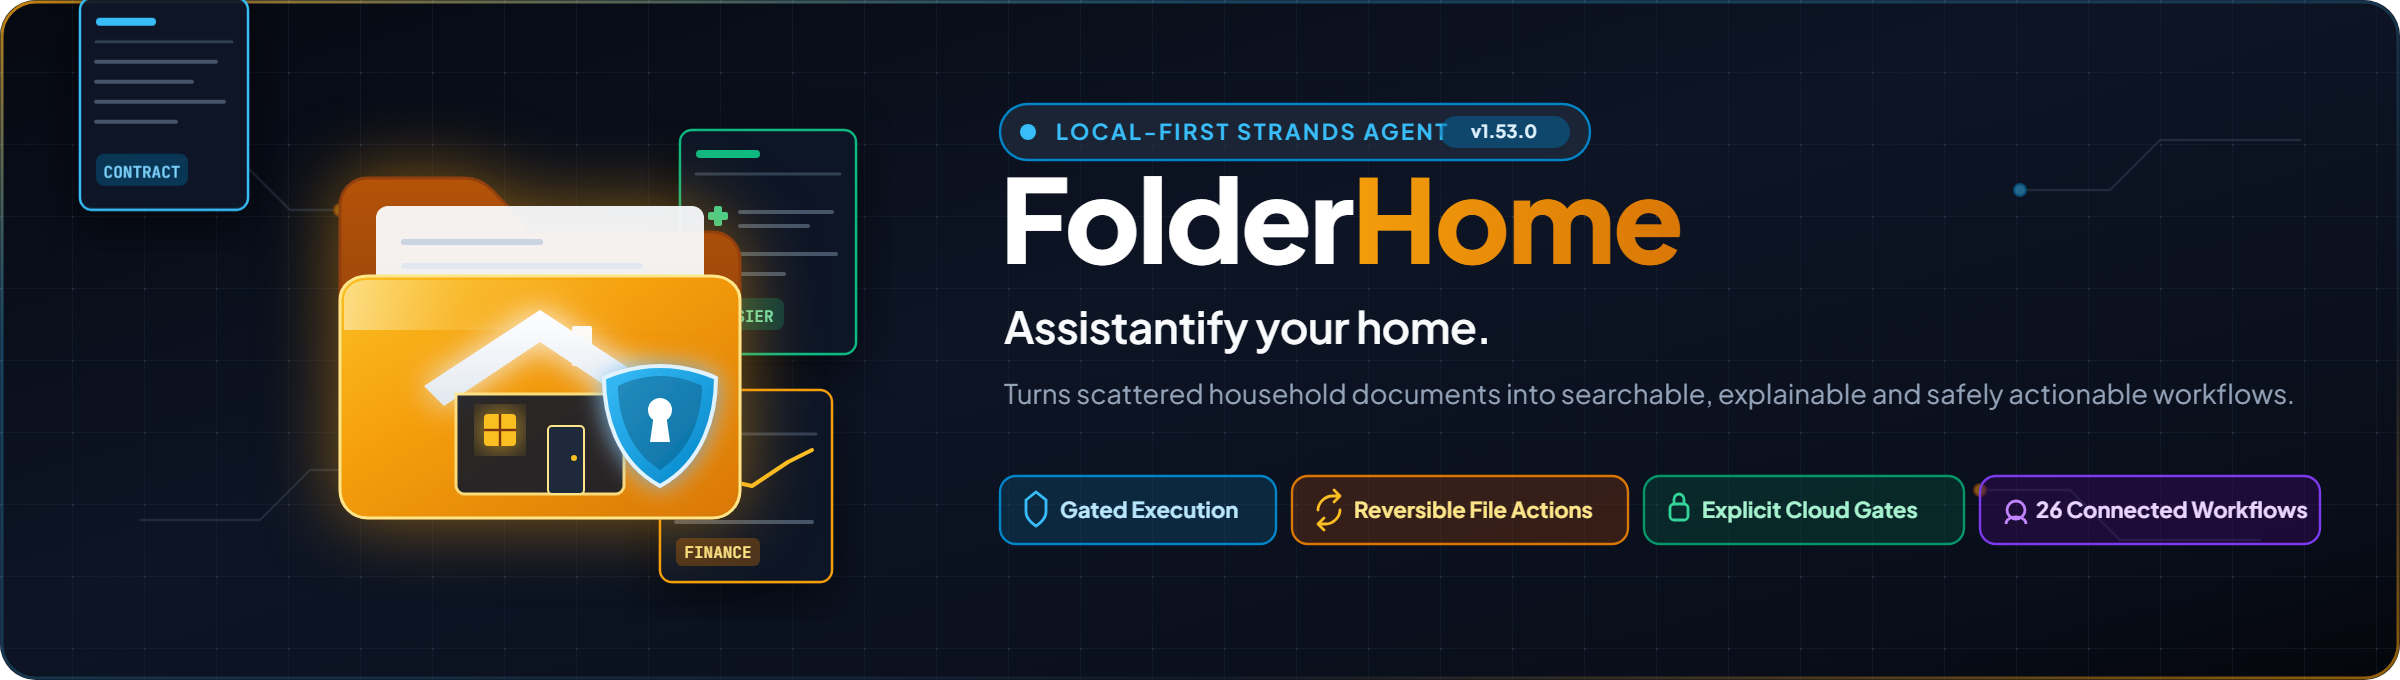
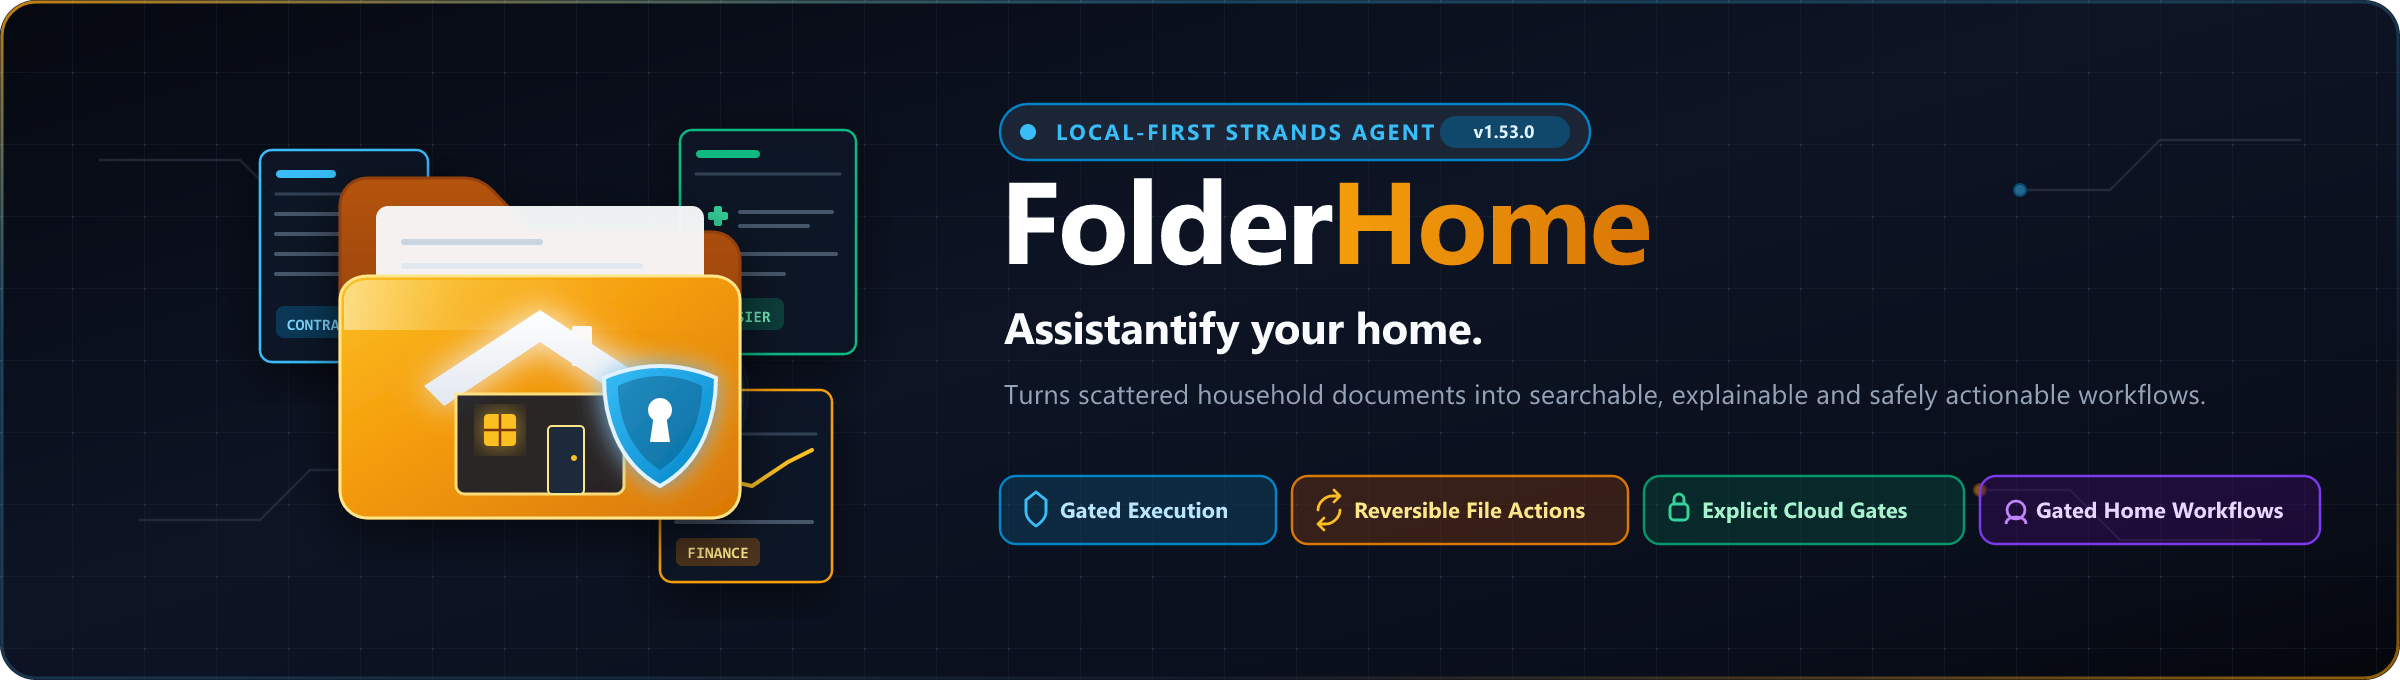
docs: refresh product graphics and qualify effect guarantees

diff --git a/assets/README.de.md b/assets/README.de.md
@@ -4,9 +4,9 @@
 
 > Assistantify your home.
 
-**Version:** 1.2  
+**Version:** 1.3  
 **Repository:** [https://github.com/ellmos-ai/FolderHome](https://github.com/ellmos-ai/FolderHome)  
-**Positionierung:** Lokaler Strands-Agent für Haushaltsdokumente, 26 verbundene Workflows, explizite Cloud-Gates und reversible Dateiaktionen.
+**Positionierung:** Lokaler Strands-Agent für Haushaltsdokumente, freigabegebundene Haushaltsabläufe, explizite Cloud-Gates und reversible Dateiaktionen.
 
 ---
 
@@ -28,15 +28,19 @@
 
 ---
 
-## 📦 Kanonische Marken- & Produkt-Assets (Produktionsreif)
+## 📦 Kanonische Marken- & Produkt-Assets
 
-Alle Vektor-SVGs und High-DPI-Raster-PNGs sind publikationsreif, sachlich auf Phase 36 harmonisiert und frei von visuellen Artefakten oder Textüberläufen.
+Banner, horizontales Logo und beide Thumbnails wurden am 9. September 2026 aktualisiert.
+Verfügbare Abläufe hängen von konfigurierten Ressourcen und Freigaben ab; maßgeblich
+ist der [Laufzeit-Fähigkeitsindex](../CAPABILITY-INDEX.de.md), keine feste Badge-Zahl.
+Diese Markenbilder sind kein Beleg einer Live-Service-Abnahme. Die aktuelle
+Komponenten- und Freigabekarte steht in der [Produktarchitektur](../docs/submission/PRODUCT_ARCHITECTURE.svg).
 
 | Datei | Typ | Dimensionen | Zweck / Beschreibung |
 |---|---|---|---|
-| [`banner.svg`](./banner.svg) | Vektor-SVG | 1200 × 340 | Responsiver Vektor-Banner mit FolderHome-Emblem, Dokument-Matrix und 4 präzisen Feature-Pills (*Gated Execution*, *Reversible File Actions*, *Explicit Cloud Gates*, *26 Connected Workflows*). |
+| [`banner.svg`](./banner.svg) | Vektor-SVG | 1200 × 340 | Responsiver Vektor-Banner mit FolderHome-Emblem, Dokument-Matrix und 4 präzisen Feature-Pills (*Gated Execution*, *Reversible File Actions*, *Explicit Cloud Gates*, *Gated Home Workflows*). |
 | [`banner.png`](./banner.png) | Raster-PNG (@2x) | 2400 × 680 | High-DPI gerenderter GitHub-Header-Banner für README und Release-Header. |
-| [`logo.svg`](./logo.svg) | Vektor-SVG | 800 × 200 | Horizontales Marken-Logo (Emblem + Wortmarke + Untertitel + 26 Connected Workflows). |
+| [`logo.svg`](./logo.svg) | Vektor-SVG | 800 × 200 | Horizontales Marken-Logo (Emblem + Wortmarke + Untertitel + Gated Home Workflows). |
 | [`logo.png`](./logo.png) | Raster-PNG (@2x) | 1600 × 400 | Horizontales Logo für Web-Header, Dokumentationen und Präsentationen. |
 | [`logo_vertical.svg`](./logo_vertical.svg) | Vektor-SVG | 500 × 500 | Zentrierter / gestapelter Marken-Logo-Lockup. |
 | [`logo_vertical.png`](./logo_vertical.png) | Raster-PNG (@2x) | 1000 × 1000 | Gestapeltes Logo für quadratische Avatare und Card-Layouts. |
@@ -46,7 +50,7 @@ Alle Vektor-SVGs und High-DPI-Raster-PNGs sind publikationsreif, sachlich auf Ph
 | [`favicon.png`](./favicon.png) | Raster-PNG | 64 × 64 | 64px Browser-Favicon. |
 | [`thumbnail.svg`](./thumbnail.svg) | Vektor-SVG | 1280 × 720 | 16:9 Video- und Showcase-Thumbnail mit großzügigem Padding, sauberem Textumbruch und 3 Architektur-Säulen. |
 | [`thumbnail.png`](./thumbnail.png) | Raster-PNG (@2x) | 2560 × 1440 | 16:9 High-Impact Showcase-Thumbnail für YouTube, Devpost und Social-Media-Vorschauen. |
-| [`thumbnail_features.svg`](./thumbnail_features.svg) | Vektor-SVG | 1280 × 720 | 16:9 4-Säulen-Feature-Matrix (*Lokaler FTS-Dokumenten-Index*, *Gated Planning & Governance*, *26 Connected Workflows*, *Reversible File Actions*). |
+| [`thumbnail_features.svg`](./thumbnail_features.svg) | Vektor-SVG | 1280 × 720 | 16:9 4-Säulen-Feature-Matrix (*Lokaler FTS-Dokumenten-Index*, *Gated Planning & Governance*, *Gated Home Workflows*, *Explicit Approval & Effect Evidence*). |
 | [`thumbnail_features.png`](./thumbnail_features.png) | Raster-PNG (@2x) | 2560 × 1440 | 16:9 gerenderte Feature-Matrix-Folie für Devpost und Video-Präsentationen. |
 
 ---
@@ -54,7 +58,7 @@ Alle Vektor-SVGs und High-DPI-Raster-PNGs sind publikationsreif, sachlich auf Ph
 ## 💡 Explorative Konzept-Visualisierungen (Moodboard)
 
 > [!NOTE]
-> Die folgenden Renderings sind generative **Design-Konzeptstudien** für visuelle Moodboards und Social-Media-Teaser. Sie enthalten modellgenerierte Text- und Interface-Artefakte und dienen **nicht** als UI-Produktbeleg. Die maßgebliche Produktarchitektur wird verbindlich durch die Vektor-Diagramme und SVGs oben belegt.
+> Die folgenden Renderings sind generative **Design-Konzeptstudien** für visuelle Moodboards und Social-Media-Teaser. Sie enthalten modellgenerierte Text- und Interface-Artefakte und dienen **nicht** als UI-Produktbeleg. Die aktuelle Produktarchitektur wird in [ARCHITECTURE.de.md](../ARCHITECTURE.de.md) beschrieben, nicht durch diese Moodboards.
 
 | Datei | Typ | Dimensionen | Zweck / Status |
 |---|---|---|---|
@@ -67,26 +71,55 @@ Alle Vektor-SVGs und High-DPI-Raster-PNGs sind publikationsreif, sachlich auf Ph
 ## 🚀 Markdown-Einbindung
 
 ### Header-Banner
+
 ```markdown
 <img src="assets/banner.png" width="100%" alt="FolderHome Banner">
 ```
 
 ### Social / OpenGraph Card
+
 ```html
 <meta property="og:image" content="https://raw.githubusercontent.com/ellmos-ai/FolderHome/main/assets/thumbnail.png" />
 <meta property="og:title" content="FolderHome — Assistantify your home." />
-<meta property="og:description" content="Lokaler Strands-Agent für Haushaltsdokumente, 26 verbundene Workflows, explizite Cloud-Gates und reversible Dateiaktionen." />
+<meta property="og:description" content="Lokaler Strands-Agent für Haushaltsdokumente, freigabegebundene Haushaltsabläufe, explizite Cloud-Gates und reversible Dateiaktionen." />
 ```
 
 ### Badges
+
 ```markdown
 [![Local-First](https://img.shields.io/badge/architecture-local--first-blue.svg)](https://github.com/ellmos-ai/FolderHome)
 [![Strands Agent](https://img.shields.io/badge/strands--agents-1.53.0-orange.svg)](https://github.com/ellmos-ai/FolderHome)
 [![Fail-Closed](https://img.shields.io/badge/security-fail--closed-green.svg)](https://github.com/ellmos-ai/FolderHome)
-[![26 Workflows](https://img.shields.io/badge/workflows-26%20connected-purple.svg)](https://github.com/ellmos-ai/FolderHome)
-[![License: MIT](https://img.shields.io/badge/License-MIT-yellow.svg)](LICENSE)
+[![Gated Workflows](https://img.shields.io/badge/workflows-gated-purple.svg)](https://github.com/ellmos-ai/FolderHome)
+[![License: MIT](https://img.shields.io/badge/License-MIT-yellow.svg)](../LICENSE)
 ```
 
 ---
 
 <!-- REMEMBER: ENDUSERTEXTE BEKOMMEN ECHTE UMLAUTE Ü Ö Ä -->
+
+## Reproduzierbarer Rasterexport
+
+Die vier aktualisierten SVGs benötigen keine Remote-Schriften. Der PNG-Export
+nutzt `resvg-py==0.5.0`, Segoe UI, Consolas und Segoe UI Symbol aus einer
+lokalen Windows-Installation; Schriftdateien werden nicht mitgeliefert.
+Andere Schriftversionen können andere Bytes erzeugen. Bestehende @2x-Maße
+bleiben erhalten. Beispiel in Python vom Repository-Root:
+
+```python
+from pathlib import Path
+import resvg_py
+
+fonts = [str(Path('C:/Windows/Fonts') / name) for name in
+         ('segoeui.ttf', 'segoeuib.ttf', 'consola.ttf', 'consolab.ttf', 'seguisym.ttf')]
+for name, (width, height) in {
+    'banner': (2400, 680), 'logo': (1600, 400),
+    'thumbnail': (2560, 1440), 'thumbnail_features': (2560, 1440),
+}.items():
+    png = resvg_py.svg_to_bytes(
+        svg_string=Path('assets', name + '.svg').read_text(encoding='utf-8'),
+        width=width, height=height, skip_system_fonts=True, font_files=fonts,
+        sans_serif_family='Segoe UI', monospace_family='Consolas',
+    )
+    Path('assets', name + '.png').write_bytes(png)
+```

diff --git a/assets/README.md b/assets/README.md
@@ -4,9 +4,9 @@
 
 > Assistantify your home.
 
-**Version:** 1.2  
+**Version:** 1.3  
 **Repository:** [https://github.com/ellmos-ai/FolderHome](https://github.com/ellmos-ai/FolderHome)  
-**Positioning:** Local-first Strands agent for household documents, 26 connected workflows, explicit cloud gates, and reversible file actions.
+**Positioning:** Local-first Strands agent for household documents, gated home workflows, explicit cloud gates, and reversible file actions.
 
 ---
 
@@ -28,15 +28,19 @@
 
 ---
 
-## 📦 Canonical Brand & Product Assets (Production-Ready)
+## 📦 Canonical Brand & Product Assets
 
-All vector SVGs and high-DPI raster PNGs are publication-ready, factually harmonized with Phase 36, and free of visual artifacts or text overflows.
+Banner, horizontal logo and both thumbnails were refreshed on 9 September 2026.
+Workflow availability depends on configured resources and gates; consult the
+[runtime capability index](../CAPABILITY-INDEX.md), not a fixed badge count.
+These brand images are not live-service acceptance evidence. For the current
+component and approval map, see [product architecture](../docs/submission/PRODUCT_ARCHITECTURE.svg).
 
 | File | Type | Dimensions | Purpose / Description |
 |---|---|---|---|
-| [`banner.svg`](./banner.svg) | Vector SVG | 1200 × 340 | Responsive vector GitHub repo banner with FolderHome emblem, document matrix, and 4 precise feature pills (*Gated Execution*, *Reversible File Actions*, *Explicit Cloud Gates*, *26 Connected Workflows*). |
+| [`banner.svg`](./banner.svg) | Vector SVG | 1200 × 340 | Responsive vector GitHub repo banner with FolderHome emblem, document matrix, and 4 precise feature pills (*Gated Execution*, *Reversible File Actions*, *Explicit Cloud Gates*, *Gated Home Workflows*). |
 | [`banner.png`](./banner.png) | Raster PNG (@2x) | 2400 × 680 | High-DPI rendered GitHub header banner for README and release headers. |
-| [`logo.svg`](./logo.svg) | Vector SVG | 800 × 200 | Horizontal brand lockup (Emblem + Wordmark + Subtitle + 26 Connected Workflows). |
+| [`logo.svg`](./logo.svg) | Vector SVG | 800 × 200 | Horizontal brand lockup (Emblem + Wordmark + Subtitle + Gated Home Workflows). |
 | [`logo.png`](./logo.png) | Raster PNG (@2x) | 1600 × 400 | High-DPI horizontal logo for web headers, docs, and presentations. |
 | [`logo_vertical.svg`](./logo_vertical.svg) | Vector SVG | 500 × 500 | Centered / stacked brand logo lockup. |
 | [`logo_vertical.png`](./logo_vertical.png) | Raster PNG (@2x) | 1000 × 1000 | Centered stacked logo for square avatars and card layouts. |
@@ -46,7 +50,7 @@ All vector SVGs and high-DPI raster PNGs are publication-ready, factually harmon
 | [`favicon.png`](./favicon.png) | Raster PNG | 64 × 64 | 64px browser favicon. |
 | [`thumbnail.svg`](./thumbnail.svg) | Vector SVG | 1280 × 720 | 16:9 Video and showcase thumbnail with generous padding, clean multi-line wrapping, and 3 architecture pillars. |
 | [`thumbnail.png`](./thumbnail.png) | Raster PNG (@2x) | 2560 × 1440 | 16:9 High-impact showcase thumbnail for YouTube, Devpost, and OpenGraph preview. |
-| [`thumbnail_features.svg`](./thumbnail_features.svg) | Vector SVG | 1280 × 720 | 16:9 4-Pillar Feature Matrix (*Local FTS Document Ingestion*, *Gated Planning & Governance*, *26 Connected Workflows*, *Reversible File Actions*). |
+| [`thumbnail_features.svg`](./thumbnail_features.svg) | Vector SVG | 1280 × 720 | 16:9 4-Pillar Feature Matrix (*Local FTS Document Ingestion*, *Gated Planning & Governance*, *Gated Home Workflows*, *Explicit Approval & Effect Evidence*). |
 | [`thumbnail_features.png`](./thumbnail_features.png) | Raster PNG (@2x) | 2560 × 1440 | 16:9 Rendered feature matrix slide for Devpost and video presentations. |
 
 ---
@@ -54,7 +58,7 @@ All vector SVGs and high-DPI raster PNGs are publication-ready, factually harmon
 ## 💡 Exploratory Concept Art (Moodboard)
 
 > [!NOTE]
-> The following renderings are generative **design concept studies** for visual moodboards and social media teasers. They contain model-generated text and UI artifacts and do **not** serve as product or architectural evidence. The canonical product architecture is defined strictly by the vector diagrams and code assets above.
+> The following renderings are generative **design concept studies** for visual moodboards and social media teasers. They contain model-generated text and UI artifacts and do **not** serve as product or architectural evidence. The current product architecture is described in [ARCHITECTURE.md](../ARCHITECTURE.md), not by these moodboards.
 
 | File | Type | Dimensions | Purpose / Status |
 |---|---|---|---|
@@ -67,22 +71,51 @@ All vector SVGs and high-DPI raster PNGs are publication-ready, factually harmon
 ## 🚀 Markdown Integration
 
 ### Header Banner
+
 ```markdown
 <img src="assets/banner.png" width="100%" alt="FolderHome Banner">
 ```
 
 ### Social / OpenGraph Card
+
 ```html
 <meta property="og:image" content="https://raw.githubusercontent.com/ellmos-ai/FolderHome/main/assets/thumbnail.png" />
 <meta property="og:title" content="FolderHome — Assistantify your home." />
-<meta property="og:description" content="Local-first Strands agent for household documents, 26 connected workflows, explicit cloud gates, and reversible file actions." />
+<meta property="og:description" content="Local-first Strands agent for household documents, gated home workflows, explicit cloud gates, and reversible file actions." />
 ```
 
 ### Badges
+
 ```markdown
 [![Local-First](https://img.shields.io/badge/architecture-local--first-blue.svg)](https://github.com/ellmos-ai/FolderHome)
 [![Strands Agent](https://img.shields.io/badge/strands--agents-1.53.0-orange.svg)](https://github.com/ellmos-ai/FolderHome)
 [![Fail-Closed](https://img.shields.io/badge/security-fail--closed-green.svg)](https://github.com/ellmos-ai/FolderHome)
-[![26 Workflows](https://img.shields.io/badge/workflows-26%20connected-purple.svg)](https://github.com/ellmos-ai/FolderHome)
-[![License: MIT](https://img.shields.io/badge/License-MIT-yellow.svg)](LICENSE)
+[![Gated Workflows](https://img.shields.io/badge/workflows-gated-purple.svg)](https://github.com/ellmos-ai/FolderHome)
+[![License: MIT](https://img.shields.io/badge/License-MIT-yellow.svg)](../LICENSE)
+```
+
+## Reproducible raster export
+
+The four refreshed SVGs need no remote fonts. PNG export uses
+`resvg-py==0.5.0`, Segoe UI, Consolas and Segoe UI Symbol from a local Windows
+installation; font files are not distributed. Other font versions can produce
+different bytes. Existing @2x dimensions are retained. Python example from
+the repository root:
+
+```python
+from pathlib import Path
+import resvg_py
+
+fonts = [str(Path('C:/Windows/Fonts') / name) for name in
+         ('segoeui.ttf', 'segoeuib.ttf', 'consola.ttf', 'consolab.ttf', 'seguisym.ttf')]
+for name, (width, height) in {
+    'banner': (2400, 680), 'logo': (1600, 400),
+    'thumbnail': (2560, 1440), 'thumbnail_features': (2560, 1440),
+}.items():
+    png = resvg_py.svg_to_bytes(
+        svg_string=Path('assets', name + '.svg').read_text(encoding='utf-8'),
+        width=width, height=height, skip_system_fonts=True, font_files=fonts,
+        sans_serif_family='Segoe UI', monospace_family='Consolas',
+    )
+    Path('assets', name + '.png').write_bytes(png)
 ```
